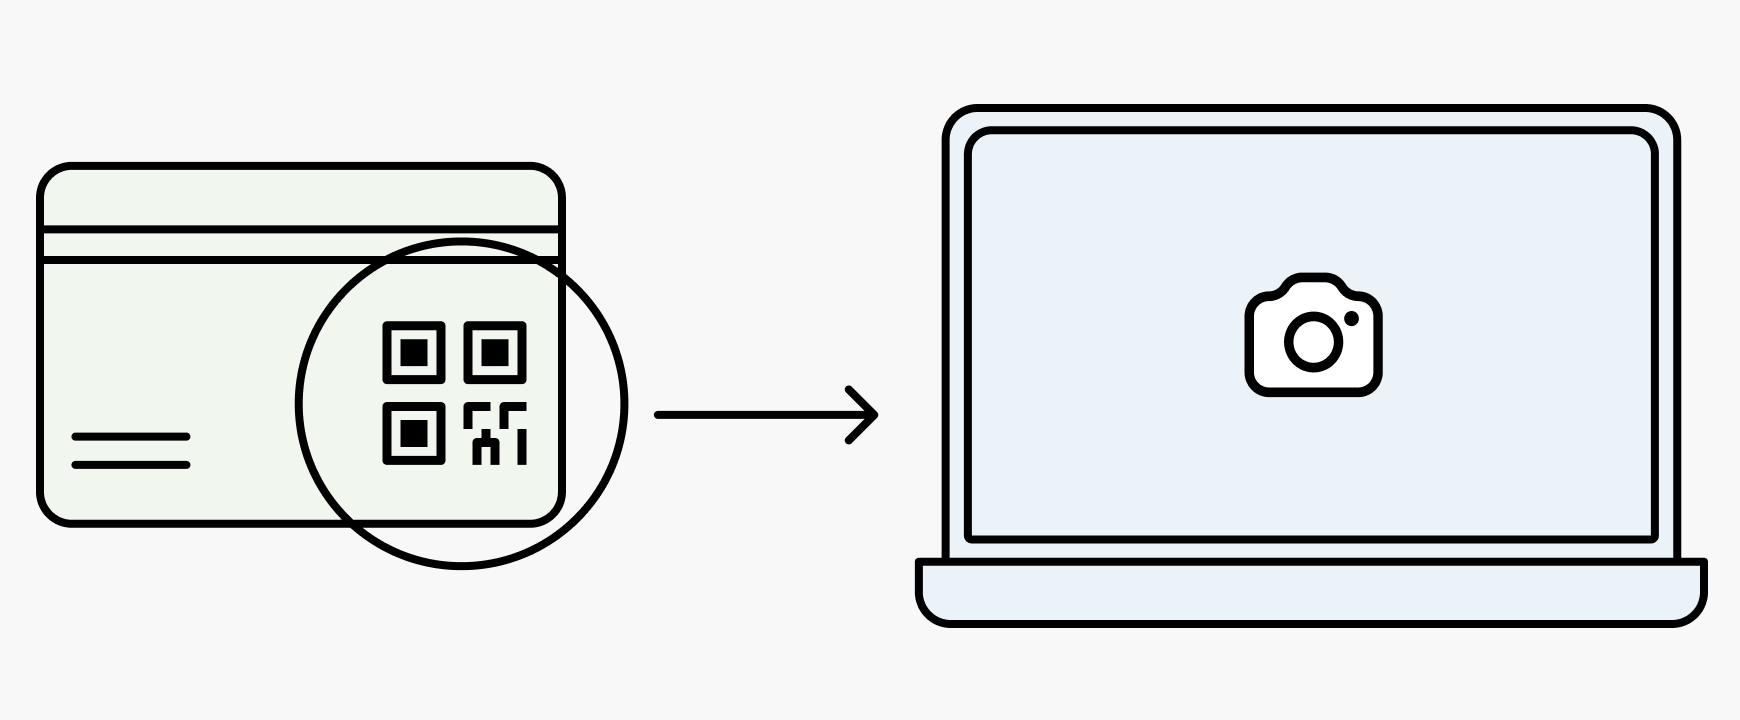
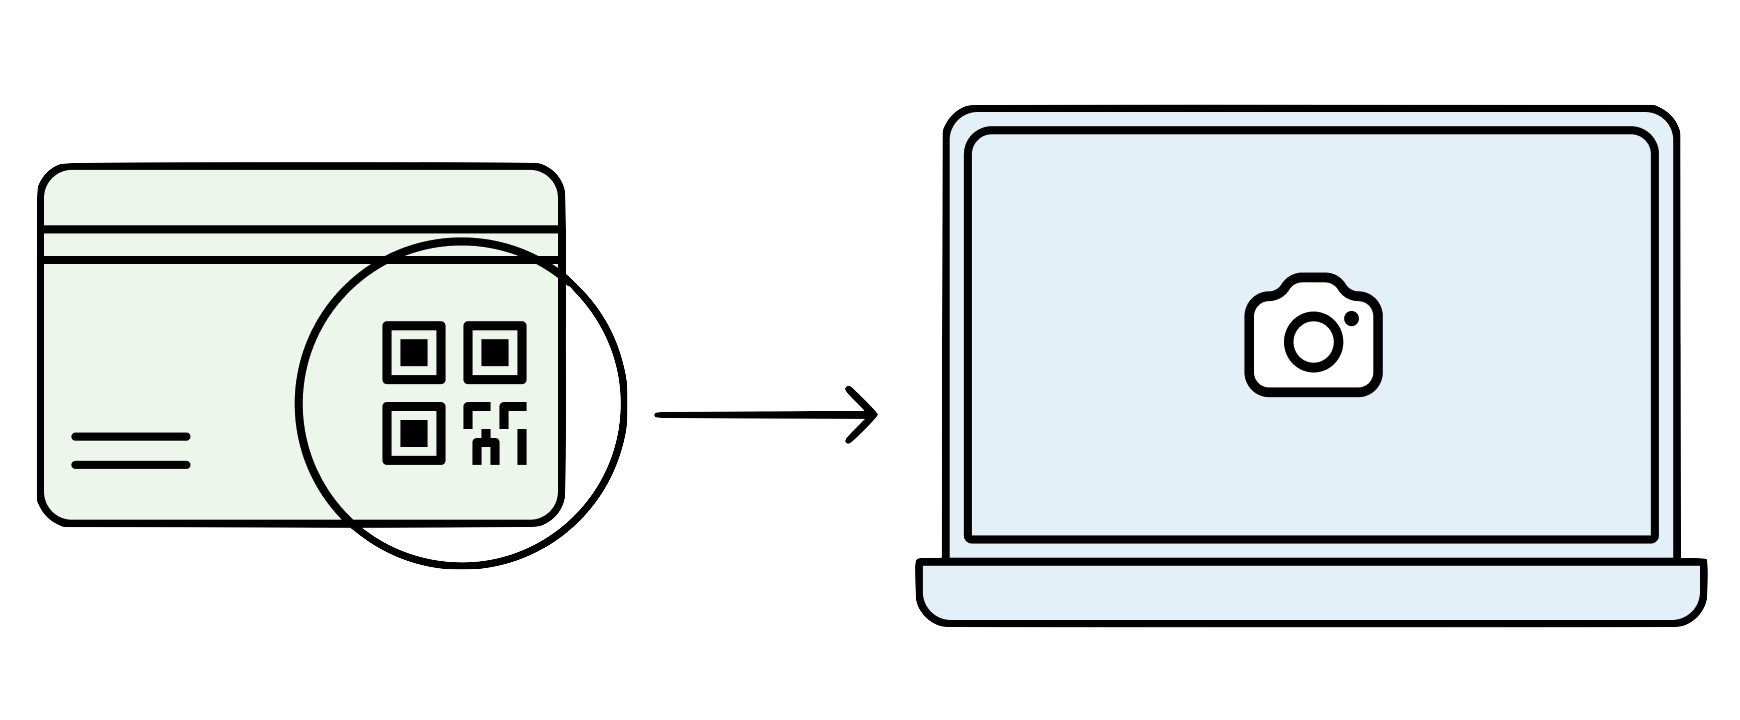
Sign up page and global styles updated

diff --git a/client/smart-waterloo-web/src/pages/SignUp/SignUp.tsx b/client/smart-waterloo-web/src/pages/SignUp/SignUp.tsx
@@ -1,0 +1,51 @@
+import React from "react";
+import Navbar from "../../components/Navbar/Navbar";
+import {mobileWidth} from "../../constants";
+import QRCard from "../../images/cardIcon.png";
+import "./SignUp.css";
+// import {Link} from "react-router-dom";
+//Todo change buttons to links
+type SignUpProps = {};
+type SignUpState = {mobileView: boolean};
+class SignUp extends React.Component<SignUpProps, SignUpState> {
+	constructor(props:SignUpProps) {
+		super(props);
+		this.updateSize = this.updateSize.bind(this);
+		this.state = {
+			mobileView:false
+		}
+	}
+	componentDidMount() {
+		this.updateSize();
+		window.addEventListener("resize", this.updateSize);
+	}
+	
+	componentWillUnmount() {
+		window.removeEventListener("resize", this.updateSize);
+	}
+	
+	updateSize() {
+		this.setState({ ...this.state, mobileView: window.innerWidth < mobileWidth });
+	}
+	render() {
+		let redText = {color: "red"};
+		return (
+			<>
+				<Navbar root={false}/>
+				<div className={"PageContainer"}>
+					<div className={this.state.mobileView? "":"DesktopPanel"}>
+						<div className={"signUpContainer"}>
+							<h4>Let's get started ✏</h4>
+							<p>Explanation of what that is. Explanation of what claiming an account means and what can the user do with this account.</p>
+							<img src={QRCard} alt="QRCard" className="QRCardIcon"/>
+							<p style={redText}>Important Notice: In the case of losing your card you will never be able to get your account back.</p>
+							<button className={"blackButton signUpButton"}>Let's get started</button>
+						</div>
+					</div>
+				</div>	
+			</>
+		);
+	}
+}
+
+export default SignUp;

diff --git a/client/smart-waterloo-web/src/App.tsx b/client/smart-waterloo-web/src/App.tsx
@@ -7,6 +7,7 @@ import Privacy from "./pages/Privacy/Privacy";
 import Login from "./pages/Login/Login";
 import ForgotPassword from "./pages/ForgotPassword/ForgotPassword";
 import NotFound from "./pages/NotFound";
+import SignUp from "./pages/SignUp/SignUp";
 import About from "./pages/About/About";
 import { useEffect } from 'react';
 import "./styles/styles.css";
@@ -17,12 +18,18 @@ function App() {
 		const mobileView = window.innerWidth < mobileWidth;
 		const root:HTMLElement|null = document.querySelector(':root');
 		if (root) {
-			if (mobileView) root.style.setProperty('--bgcolor', '#F8F8F8');
-			else root.style.setProperty('--bgcolor', 'white');
+			if (mobileView) {
+				root.style.setProperty('--bgcolor', '#F8F8F8');
+				root.style.setProperty('--defaultTextAlign', 'left');
+			} else {
+				root.style.setProperty('--bgcolor', 'white');
+				root.style.setProperty('--defaultTextAlign', 'center')
+			}
 		}
 	}
 	useEffect(() => {
 		window.addEventListener("resize", updateSizing);
+		updateSizing();
 	});
 	return (
 		<Router>
@@ -35,6 +42,7 @@ function App() {
 				<Route path="/privacy" element={<Privacy />}></Route>
 				<Route path="/login" element={<Login />}></Route>
 				<Route path="/forgotpassword" element={<ForgotPassword />}></Route>
+				<Route path="/signup" element={<SignUp />}></Route>
 				<Route path="*" element={<NotFound />}></Route>
 
 			</Routes>

diff --git a/client/smart-waterloo-web/src/styles/styles.css b/client/smart-waterloo-web/src/styles/styles.css
@@ -2,7 +2,8 @@
 	font-size :16px;
 	color: black;
 	font-family: pangram, serif;
-	--bgcolor: #F8F8F8
+	--bgcolor: #F8F8F8;
+	--defaultTextAlign: "left"
 }
 
 @font-face {
@@ -25,7 +26,7 @@ main, nav, header, footer {
 }
 
 h1, h2, h3, h4, h5, h6{
-	text-align: center;
+	text-align: var(--defaultTextAlign);
 	margin: 0;
 }
 h1{font-size:4rem;}
@@ -65,7 +66,7 @@ input, option, .select{
 	border-radius: 0.5rem;
 	padding: 0 0.2rem;
 	margin: 0.2rem;
-	text-align: center;
+	text-align: var(--defaultTextAlign);
 }
 .horizontal{
 	display:flex;
@@ -123,7 +124,7 @@ input, option, .select{
 
 .PageContainer{
 	display: flex;
-	align-items: center;
+	align-items: var(--defaultTextAlign);
 	justify-content: center;
 	flex-direction: column;
 	padding: 1rem 1rem;

diff --git a/client/smart-waterloo-web/src/pages/Login/Login.tsx b/client/smart-waterloo-web/src/pages/Login/Login.tsx
@@ -49,7 +49,7 @@ class Login extends React.Component<LoginProps, LoginState> {
 						<p>Enter your password to continue using "Name of the Project"</p>
 						<div className="passwordInput">
 							<h6>Password</h6>
-							<input name="password" id="passwordInput" placeholder="Password" type={"text"} value={this.state.inputs.password} onChange={this.handleInputChange}/>
+							<input name="password" id="passwordInput" placeholder="Password" type={"password"} value={this.state.inputs.password} onChange={this.handleInputChange}/>
 							<a>Forgot your password?</a>
 						</div>
 						<button className="blackButton loginButton">Sign In</button>

diff --git a/client/smart-waterloo-web/src/pages/SignUp/SignUp.css b/client/smart-waterloo-web/src/pages/SignUp/SignUp.css
@@ -1,0 +1,17 @@
+.QRCardIcon{
+	height: auto;
+	width: 10rem;
+	margin: 3rem 0 1rem;
+}
+.signUpButton{
+	margin-top: 3rem;
+	height: 3rem;
+	font-size: 2rem;
+	width: min(80%, 20rem);
+}
+.signUpContainer{
+	display:flex;
+	align-items: var(--defaultTextAlign);
+	justify-content: center;
+	flex-direction: column;
+}

diff --git a/client/smart-waterloo-web/src/pages/ScanQR/ScanQR.css b/client/smart-waterloo-web/src/pages/ScanQR/ScanQR.css
@@ -4,14 +4,11 @@
 	width: min(80%, 20rem);
 }
 .qrCodePNG{
-	height: 8rem;
-	width: auto;
-}
-.QRPageDesktop p{
-	text-align: center;
+	height: auto;
+	width: min(80%, 20rem);
 }
 .QRInfoPanel{
 	display: flex;
 	flex-direction: column;
-	align-items: center;
+	align-items: var(--defaultTextAlign);
 }

diff --git a/client/smart-waterloo-web/src/pages/Login/Login.css b/client/smart-waterloo-web/src/pages/Login/Login.css
@@ -1,6 +1,7 @@
 .avatarImage{
 	width: 10rem;
 	height: auto;
+	align-self: center;
 }
 .loginButton{
 	width: min(80%, 15rem);
@@ -24,7 +25,7 @@
 .passwordInput{
 	display:flex;
 	flex-direction: column;
-	align-items: inherit;
+	align-items: left;
 	justify-content: inherit;
 	margin: 1rem 0;
 }
